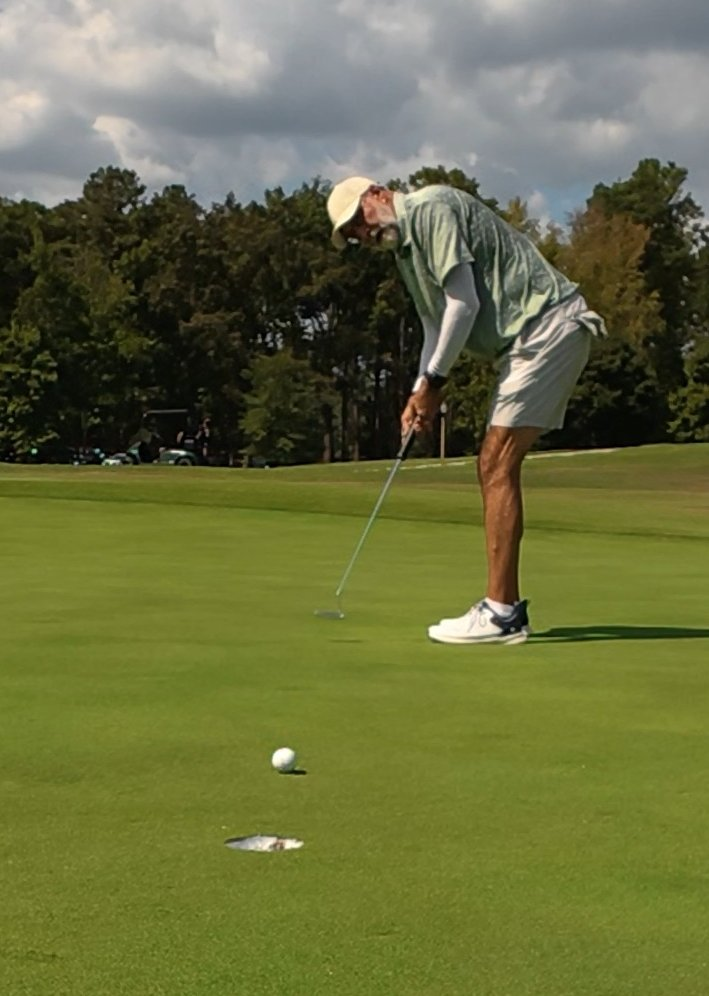
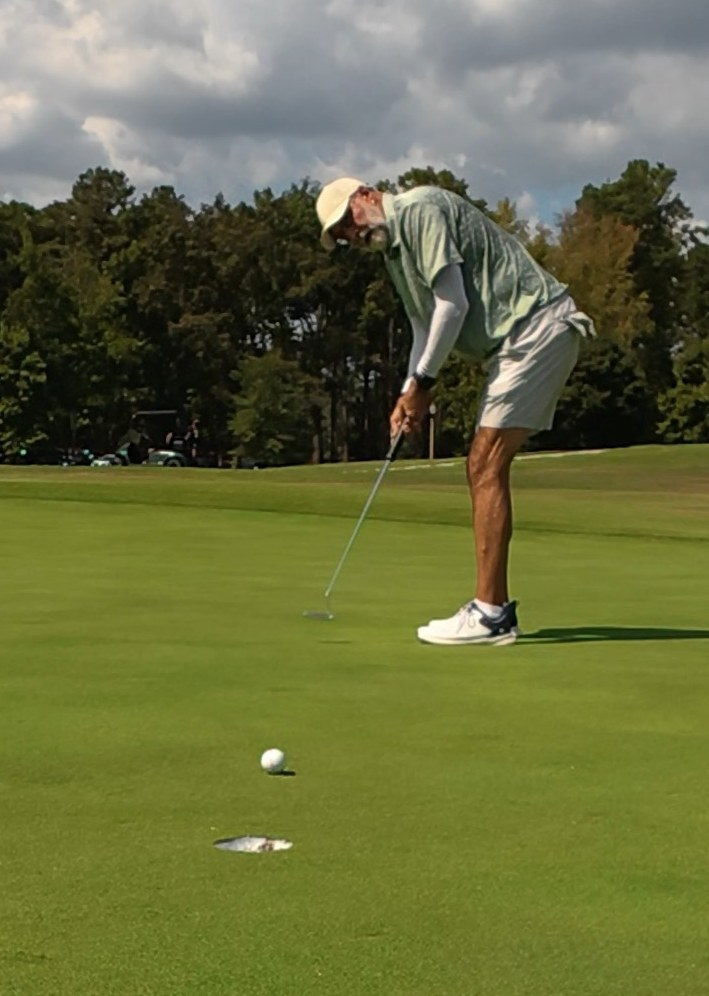
Putt photo: use Jim's own cropped image

diff --git a/index.html b/index.html
@@ -48,7 +48,7 @@
             <a class="btn btn-secondary" data-tel="" href="tel:+19257259930"><span data-phone-text="">925 725 9930</span></a>
           </div>
         <figure class="photo photo-portrait hero-photo">
-            <a class="photo-link" href="assets/first-even-par-putt.jpg" data-lightbox="" aria-label="Enlarge photo"><img src="assets/first-even-par-putt-sm.jpg" srcset="assets/first-even-par-putt-sm.jpg 480w, assets/first-even-par-putt.jpg 709w" sizes="(min-width: 720px) 34vw, 100vw" width="480" height="674" alt="Jim putting on the final green at Pursell Farms, ball rolling towards the hole" loading="lazy" decoding="async"></a>
+            <a class="photo-link" href="assets/first-even-par-putt.jpg?v=3" data-lightbox="" aria-label="Enlarge photo"><img src="assets/first-even-par-putt-sm.jpg?v=3" srcset="assets/first-even-par-putt-sm.jpg?v=3 480w, assets/first-even-par-putt.jpg?v=3 709w" sizes="(min-width: 720px) 34vw, 100vw" width="480" height="674" alt="Jim putting on the final green at Pursell Farms, ball rolling towards the hole" loading="lazy" decoding="async"></a>
             <figcaption>Final putt on my first even par round 😊<br>Pursell Farms - 16 Sep 2026</figcaption>
           </figure>
       </div>
